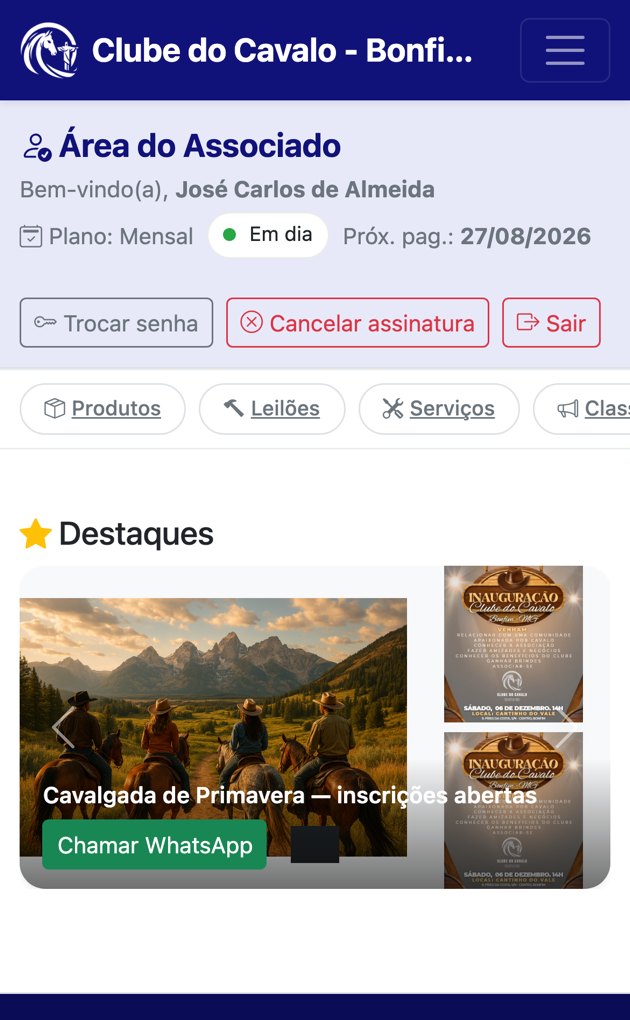
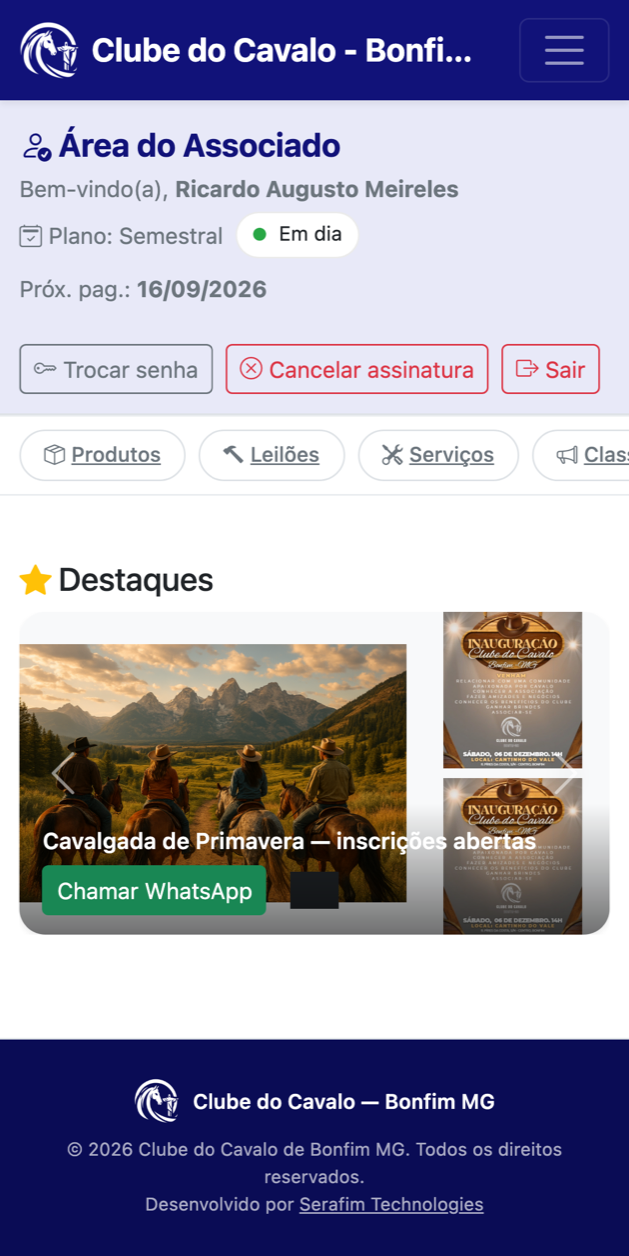
Corrige screenshots de produto: mobile sem corte e dados fictícios no admin
O screenshot mobile cortava antes do rodapé; agora é captura de página
inteira. Nos screenshots de admin, nomes/CPFs reais foram trocados por
dados fictícios (LGPD) e o perfil exibido passou de Master para
Financeiro (computador) e Presidente (tablet), com legendas ajustadas.

diff --git a/index.html b/index.html
@@ -210,8 +210,8 @@
         <div class="device-slot">
           <div class="device device-phone">
             <div class="device-screen">
-              <img src="assets/images/product/associado-celular.png" width="630" height="1020" loading="lazy"
-                   alt="Tela do Portal do Associado no celular: situação Em dia, plano Mensal, próximo pagamento e destaques do clube">
+              <img src="assets/images/product/associado-celular.png" width="629" height="1256" loading="lazy"
+                   alt="Tela do Portal do Associado no celular: situação Em dia, plano Semestral, próximo pagamento e destaques do clube">
             </div>
           </div>
           <p class="device-legenda"><strong>Associado, no celular</strong>Vê se está em dia, paga em dois toques e leva a carteirinha no bolso.</p>
@@ -220,21 +220,21 @@
         <div class="device-slot">
           <div class="device device-laptop">
             <div class="device-screen">
-              <img src="assets/images/product/admin-associados-notebook.png" width="640" height="440" loading="lazy"
-                   alt="Tela de gestão de associados no notebook: indicadores de pendências e vencimentos, filtros e lista com situação de cada associado">
+              <img src="assets/images/product/admin-associados-notebook.png" width="1367" height="1400" loading="lazy"
+                   alt="Tela de gestão de associados no computador: indicadores de pendências e vencimentos, filtros e lista com situação de cada associado">
             </div>
           </div>
-          <p class="device-legenda d-none d-md-block"><strong>Secretaria, no notebook</strong>Cadastra uma vez, avisa todo mundo dali mesmo e nunca redigita a mesma informação.</p>
+          <p class="device-legenda d-none d-md-block"><strong>Secretaria, no computador</strong>Cadastra uma vez, avisa todo mundo dali mesmo e nunca redigita a mesma informação.</p>
         </div>
 
         <div class="device-slot">
           <div class="device device-desktop">
             <div class="device-screen">
-              <img src="assets/images/product/painel-diretoria-desktop.png" width="800" height="520" loading="lazy"
-                   alt="Painel de administração no computador: módulos de associados, financeiro, eventos, comunicação e conteúdo do site">
+              <img src="assets/images/product/painel-diretoria-desktop.png" width="1000" height="650" loading="lazy"
+                   alt="Painel de administração no tablet: módulos de associados, financeiro, eventos, comunicação e conteúdo do site">
             </div>
           </div>
-          <p class="device-legenda d-none d-xl-block"><strong>Presidência e financeiro, no computador</strong>Abre e sabe na hora quem está em dia, o que vence e quanto entrou no mês.</p>
+          <p class="device-legenda d-none d-xl-block"><strong>Presidência e financeiro, no tablet</strong>Abre e sabe na hora quem está em dia, o que vence e quanto entrou no mês.</p>
         </div>
       </div>
       <p class="text-center ds-text-xs ds-text-muted mb-5">Telas reais do Portal em uso no Clube do Cavalo de Bonfim MG — dados pessoais fictícios, exibidos apenas para demonstração.</p>
